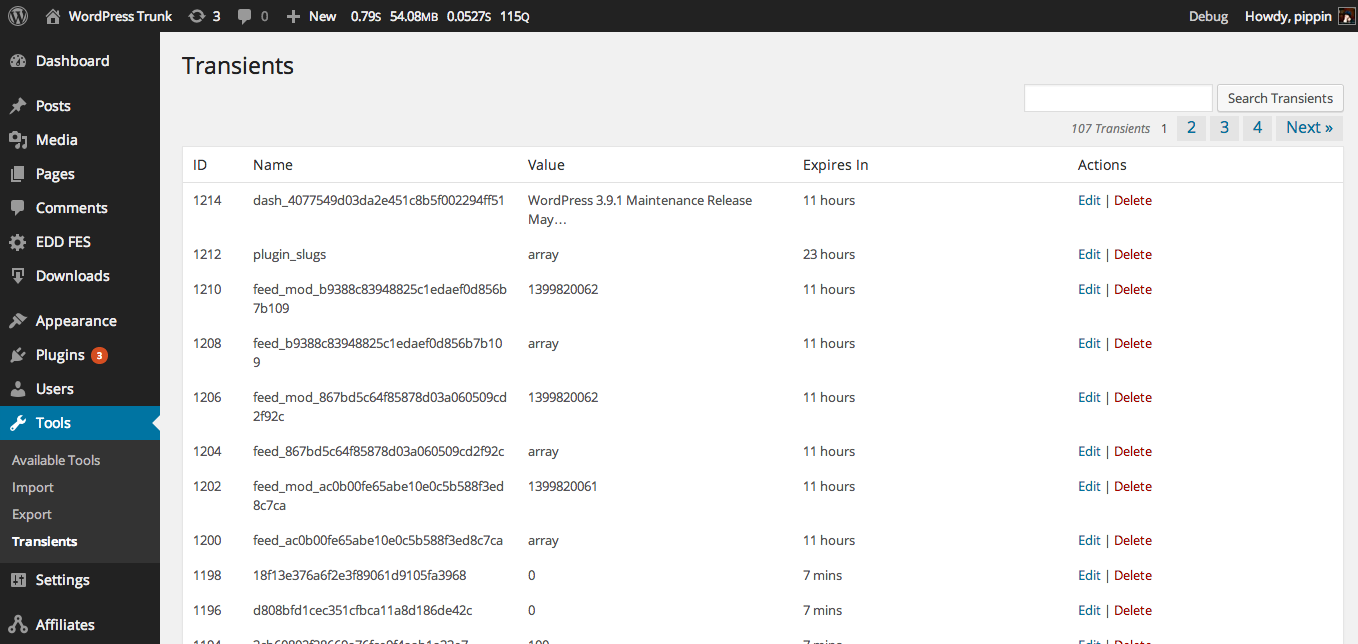
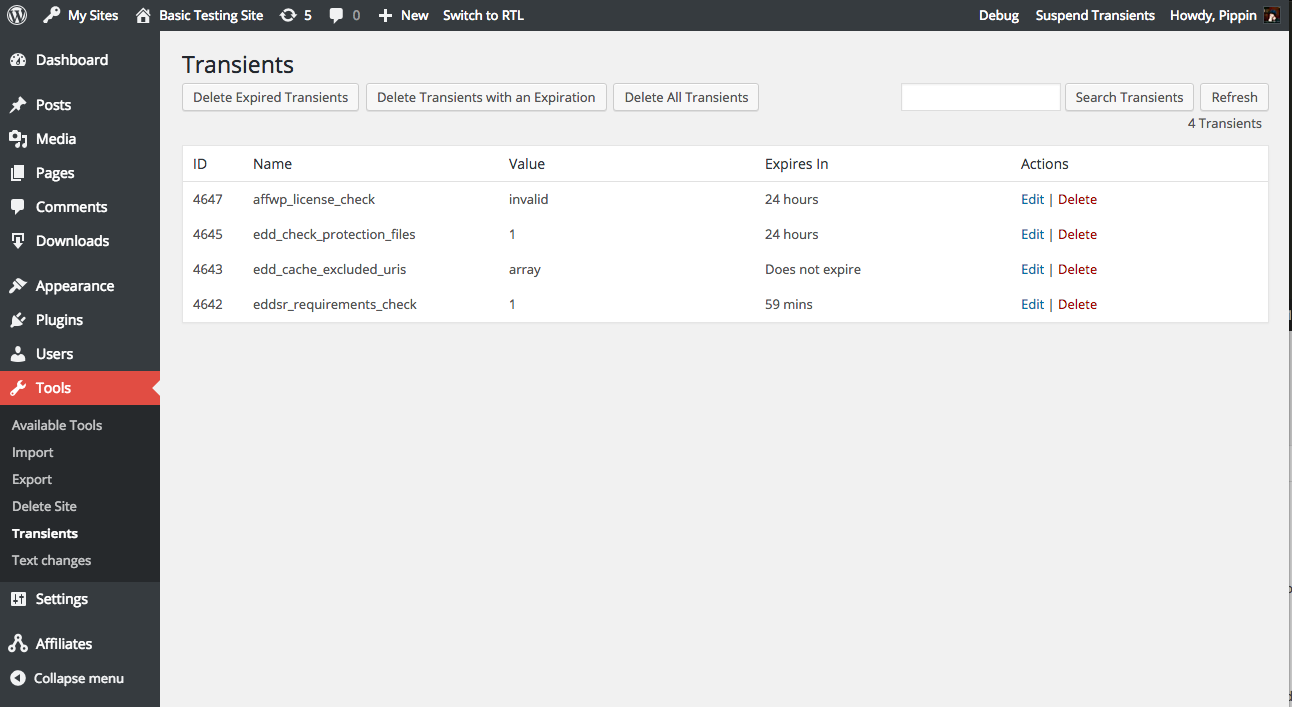
Version bump to 1.7, updated description / screenshot

diff --git a/transients-manager.php b/transients-manager.php
@@ -3,7 +3,7 @@
  * Plugin Name: Transients Manager
  * Plugin URL: http://pippinsplugins.com/transients-manager
  * Description: Provides a UI to manage your site's transients. You can view, search, edit, and delete transients at will.
- * Version: 1.6.1
+ * Version: 1.7
  * Author: Pippin Williamson
  * Author URI: http://pippinsplugins.com
  * Contributors: mordauk
